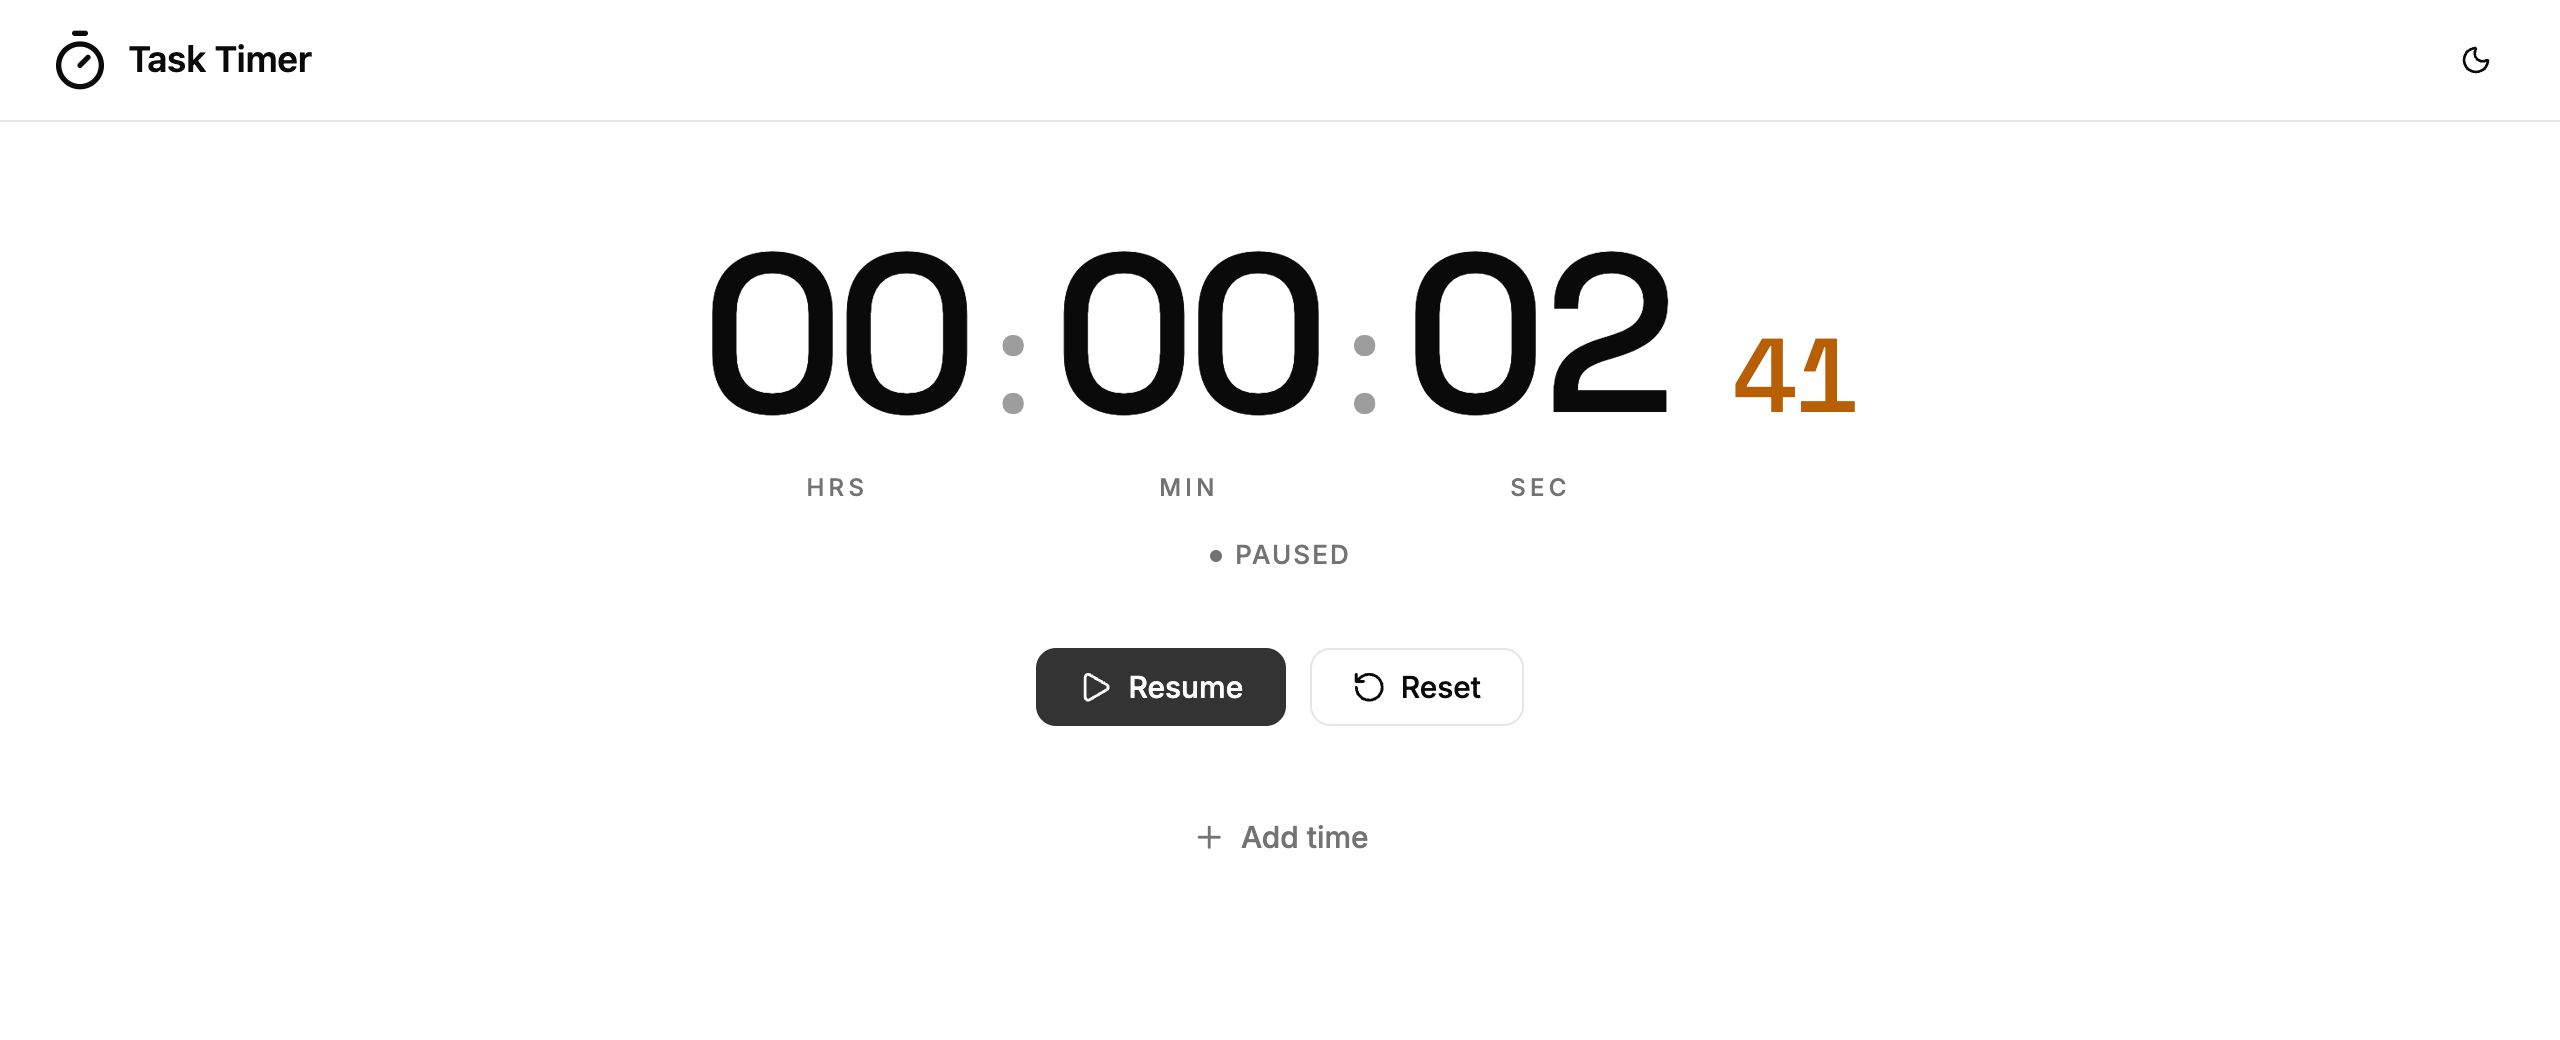
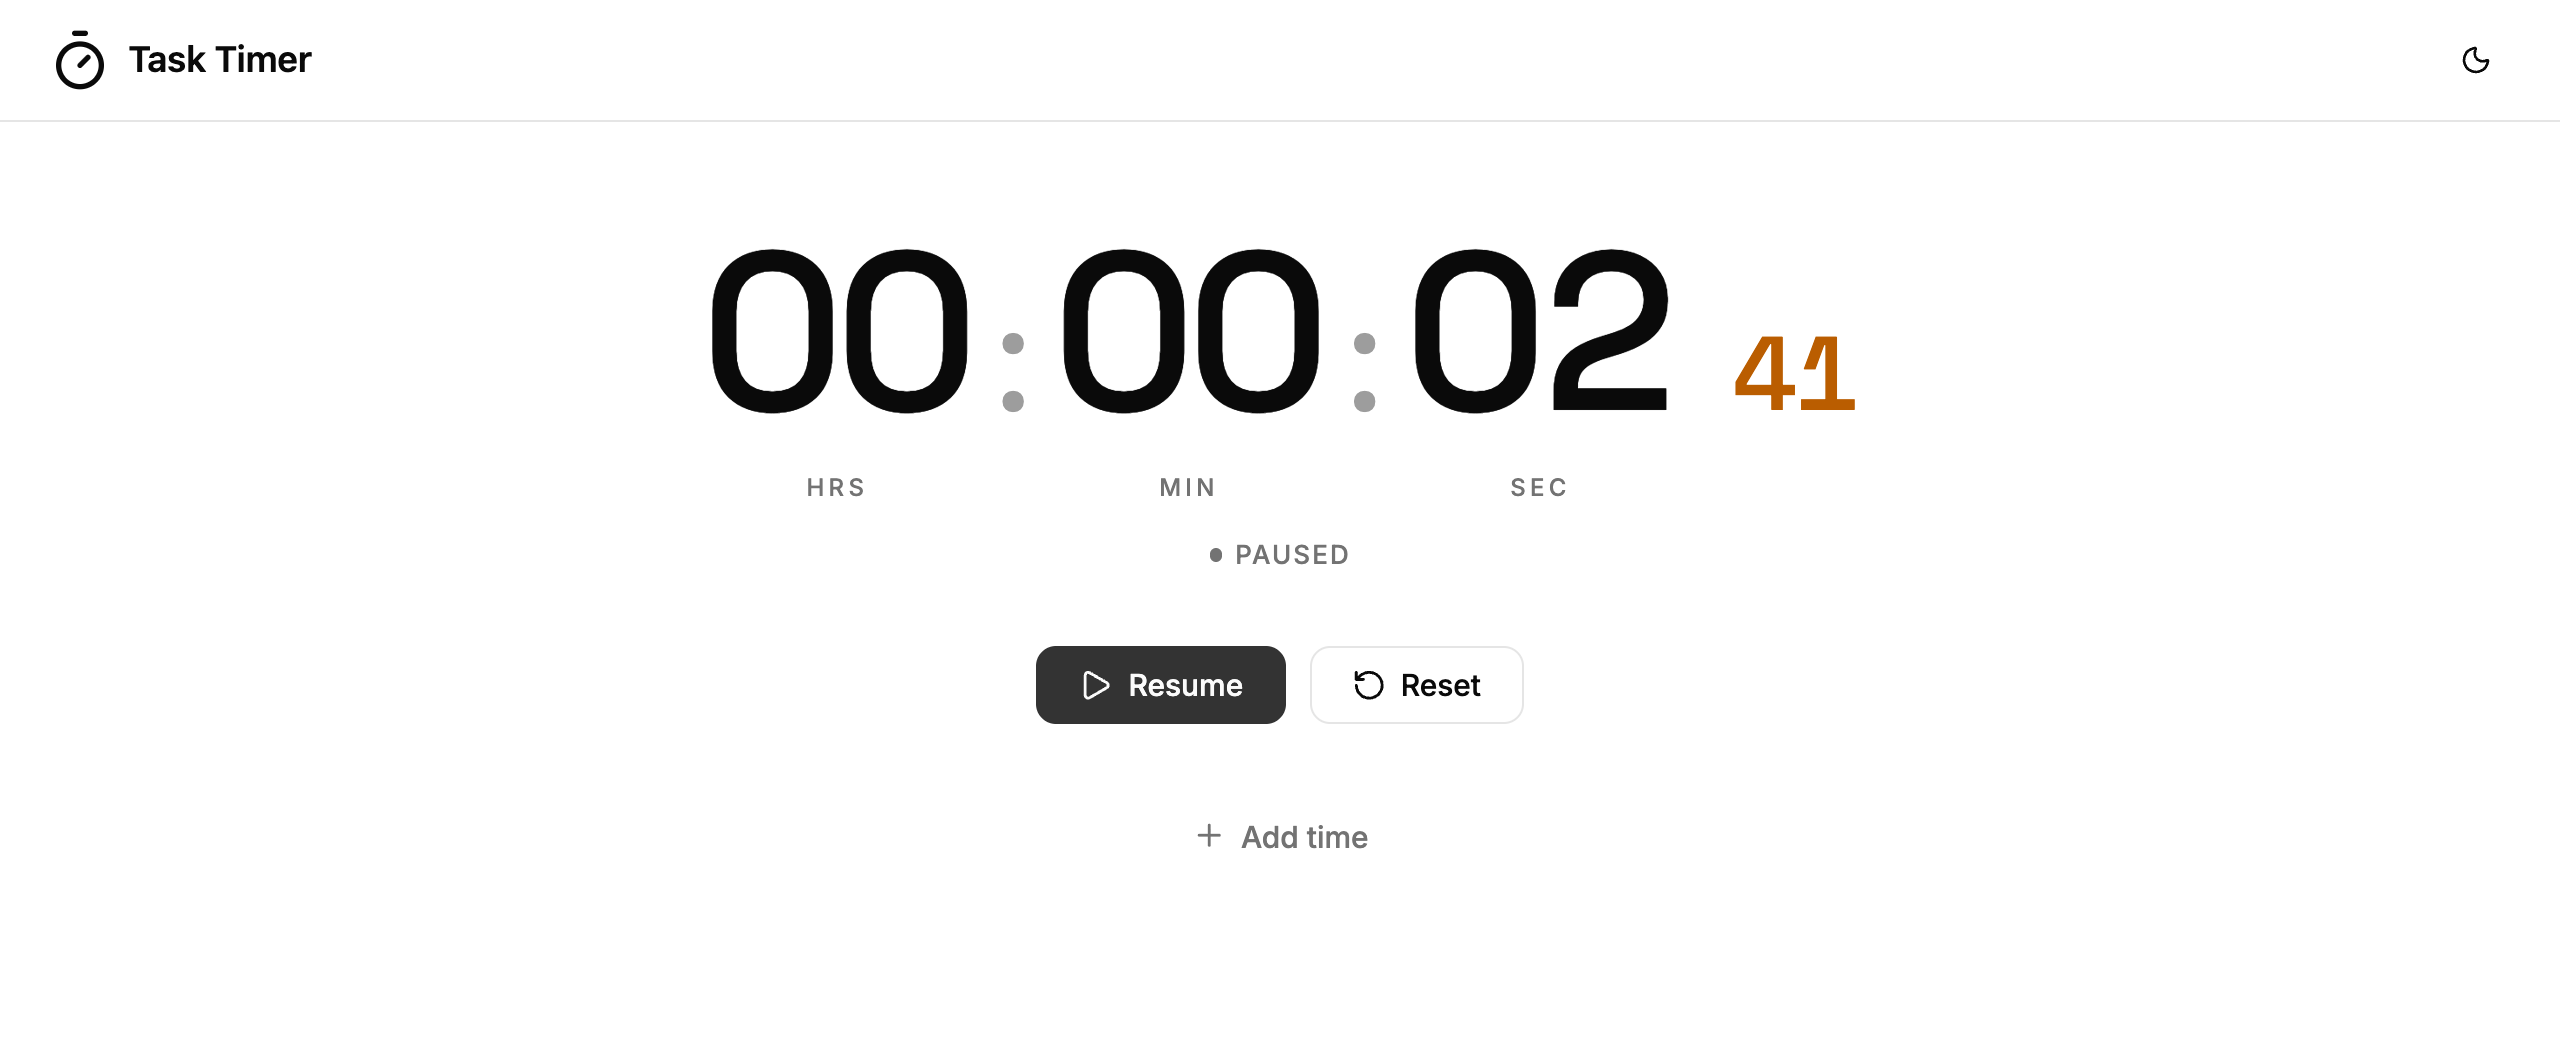
Stop the page overflowing the viewport by one pixel
HomePage sized itself as `calc(100dvh - 3.75rem)`, subtracting an assumed
header height. The header actually measures 61px -- 60px of content and
padding plus its 1px bottom border -- so the page came out 901px tall in a
900px viewport and every screen got a scrollbar for a single pixel.

Make `body` a full-height flex column and let the page claim the remaining
space with `flex: 1`, so nothing needs to know the header's height.
Verified at 1400x900, 1280x720, 1024x1366, 420x720 and 390x844, and with
the add-time panel open on a 390x700 viewport: zero overflow in both axes.

diff --git a/app/pages/HomePage.module.scss b/app/pages/HomePage.module.scss
@@ -1,10 +1,15 @@
 // The Timer sizes itself in `cqi` units, so this wrapper is the query
-// container it scales against. Height is the viewport minus the header.
+// container it scales against.
+//
+// `flex: 1` claims whatever the header leaves rather than subtracting a
+// hardcoded header height — that measurement has to include the header's
+// bottom border, and being a pixel out is enough to produce a scrollbar.
+// `body` is the flex column, set in root.tsx.
 .page {
   display: flex;
+  flex: 1;
   justify-content: center;
   align-items: center;
-  min-height: calc(100dvh - 3.75rem);
   padding: 2rem 1.5rem 4rem;
   container-type: inline-size;
 }

diff --git a/app/root.tsx b/app/root.tsx
@@ -45,7 +45,9 @@ export function Layout({children}: { children: ReactNode }) {
         <Meta />
         <Links />
       </head>
-      <body>
+      {/* A full-height flex column so the routed page can claim the space the
+          header leaves, without anything having to know the header's height. */}
+      <body className="flex min-h-dvh flex-col">
         {children}
         <ScrollRestoration />
         <Scripts />
